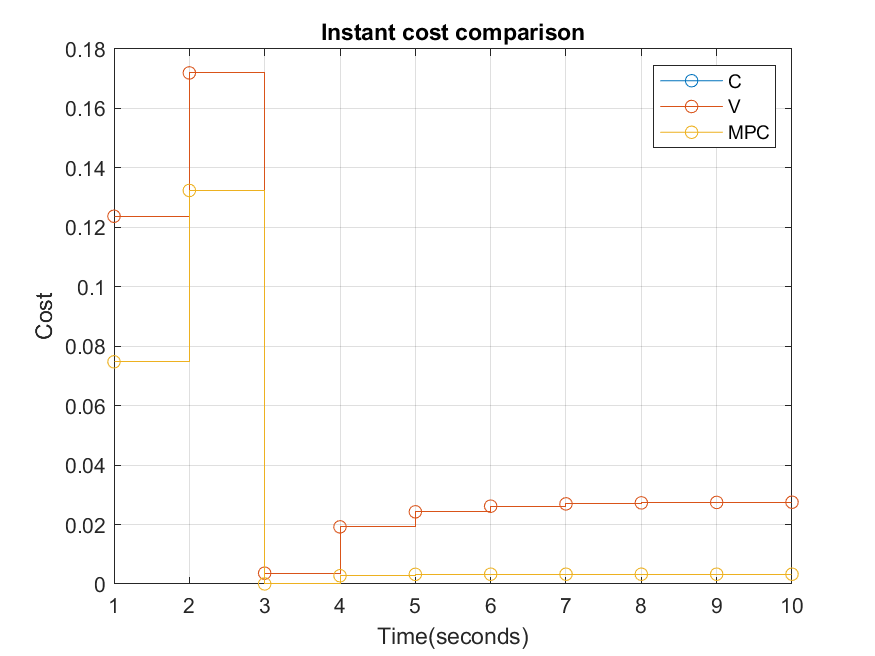
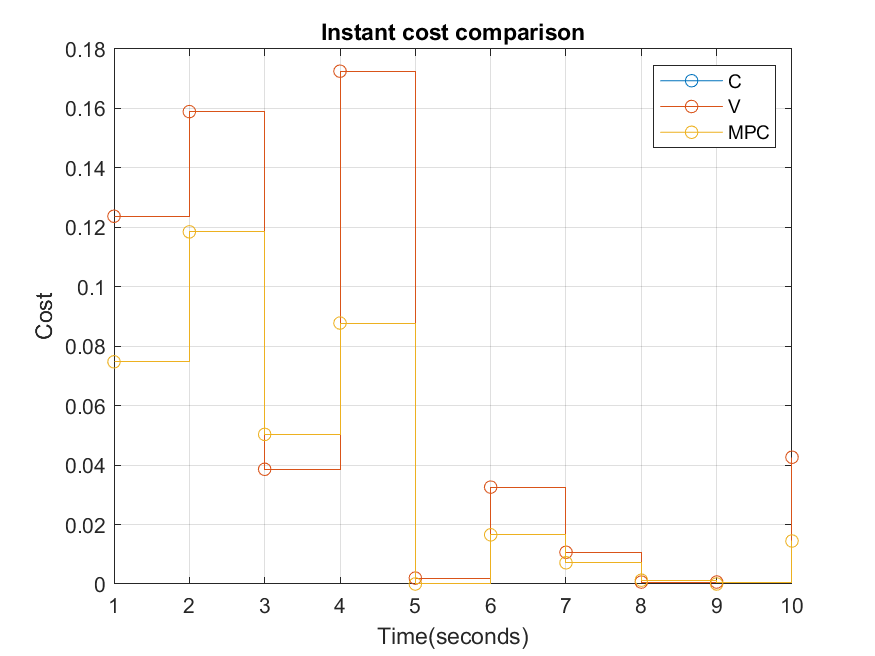
updates images

diff --git a/avaliacoes/avaliacao1/codigos-aula/plot_j_total.m b/avaliacoes/avaliacao1/codigos-aula/plot_j_total.m
@@ -3,6 +3,7 @@ figure;
 plot((out.j_real_total - out.j_ideal_total)/out.j_ideal_total, '-o');
 hold on;
 plot((out.j_real_total1 - out.j_ideal_total1)/out.j_ideal_total1, '-o');
+hold on;
 plot((out.j_real_total2 - out.j_ideal_total2)/out.j_ideal_total2, '-o');
 grid;
 xlabel('Time(seconds)');

diff --git a/avaliacoes/avaliacao1/codigos-aula/script_duplointegrador.m b/avaliacoes/avaliacao1/codigos-aula/script_duplointegrador.m
@@ -53,9 +53,9 @@ Q12 = 0;
 observer_eig = 0.1*control_eig;
 
 %Pertubations
-measure_noise_gain = 0;
+measure_noise_gain = 1e-2;
 wind_initial_value = 0;
-wind_final_value = 0.0;
+wind_final_value = 0.2;
 wind_steptime = 0;
 
 %Input saturation

diff --git a/avaliacoes/avaliacao1/codigos-aula/plot_j.m b/avaliacoes/avaliacao1/codigos-aula/plot_j.m
@@ -3,6 +3,7 @@ figure;
 plot((out.j_real - out.j_ideal)/out.j_ideal, '-o');
 hold on;
 plot((out.j_real1 - out.j_ideal1)/out.j_ideal1, '-o');
+hold on;
 plot((out.j_real2 - out.j_ideal2)/out.j_ideal2, '-o');
 grid;
 xlabel('Time(seconds)');
